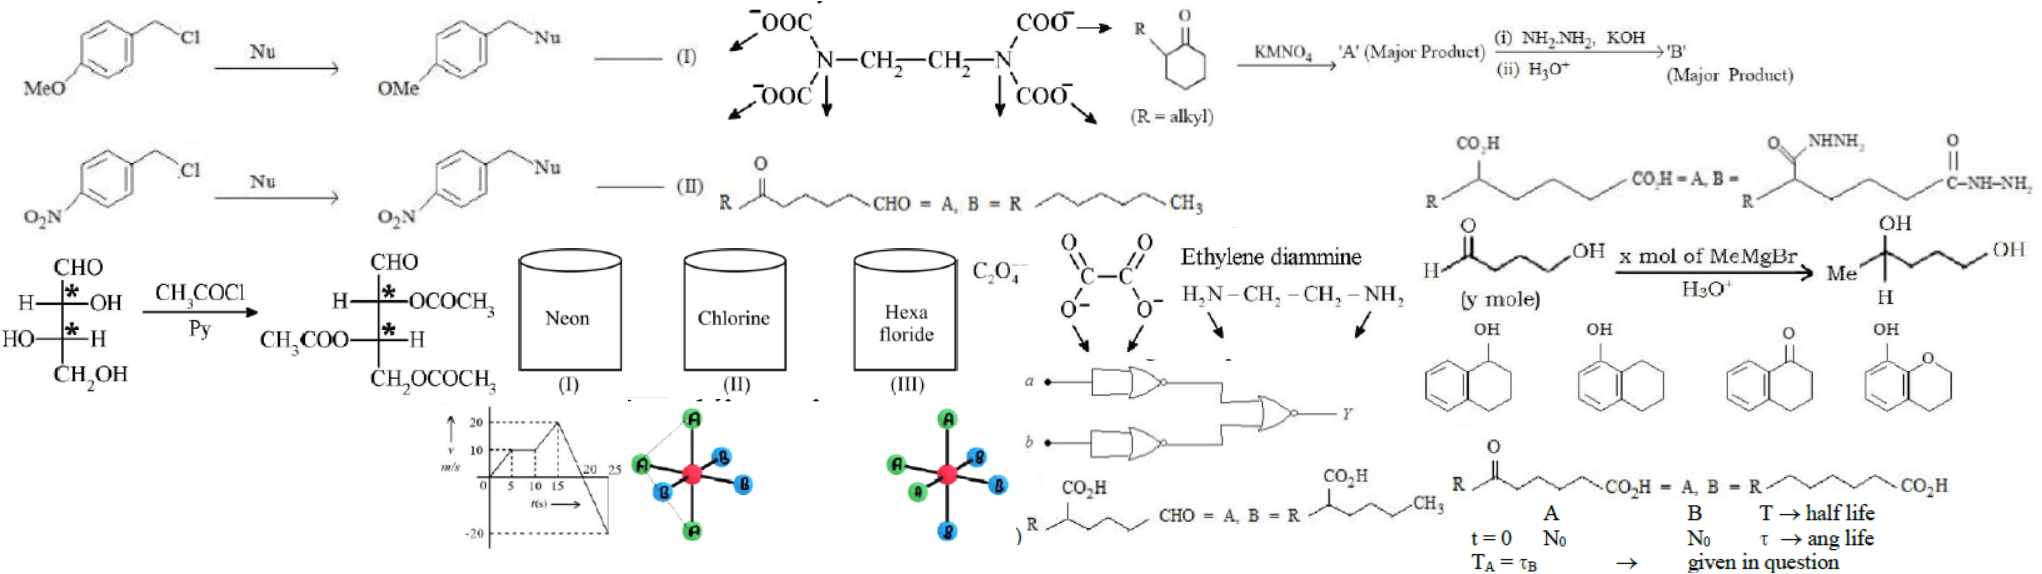
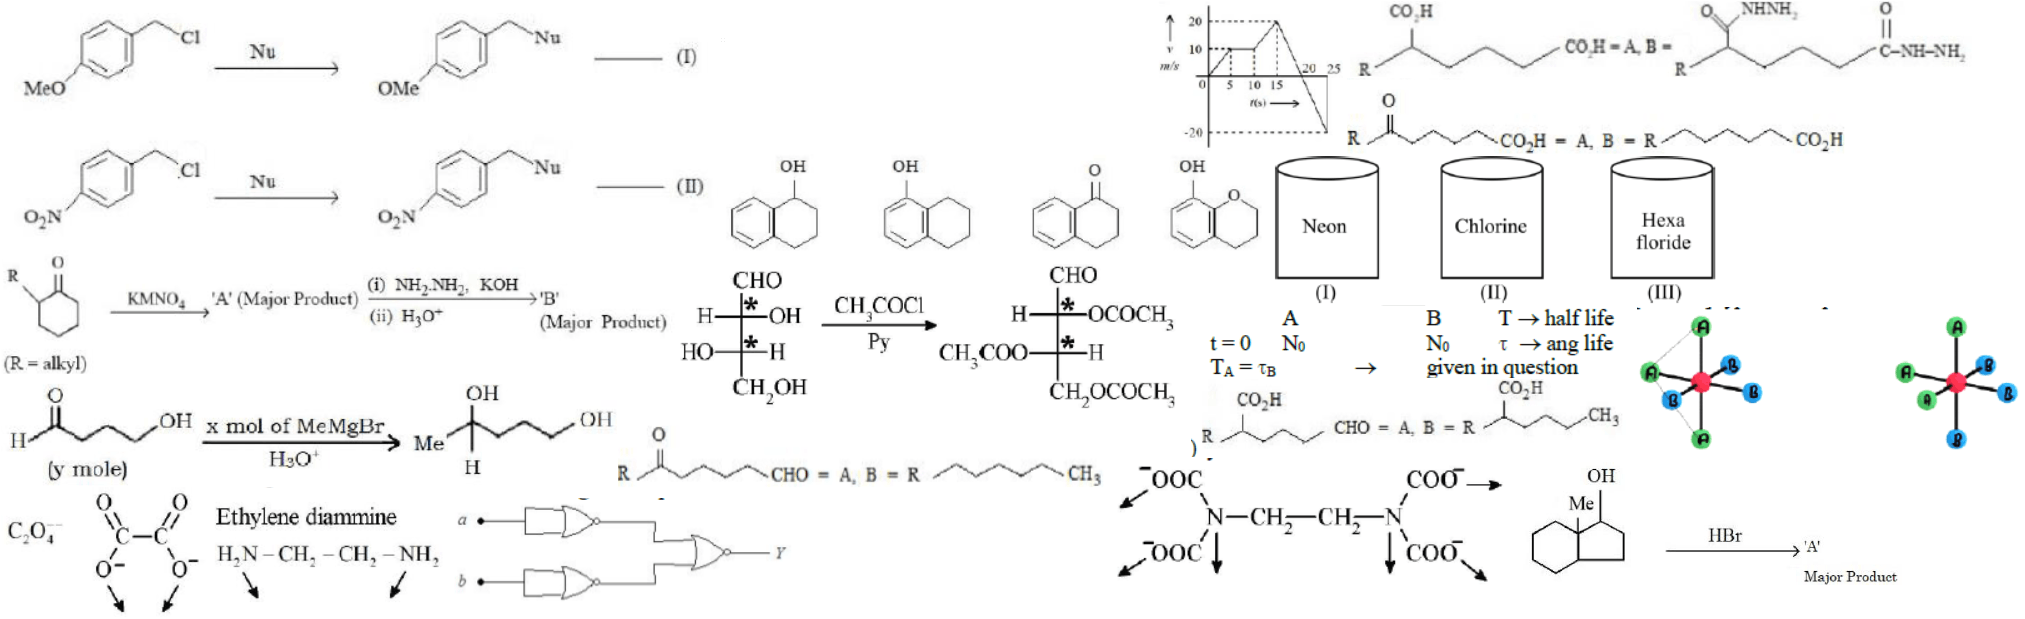
Fixed.

diff --git a/img/jee/mains/prev/jee_mn_11_apr_2023_s1.css b/img/jee/mains/prev/jee_mn_11_apr_2023_s1.css
@@ -11,7 +11,7 @@ Responsive: <div class="yourspritesname"></div>
 .JEEMAINS_11APRIL_2023_S1_Q_35::after {content: '\00a0';display: inline-block; width:356px; height:190px; background-position: 88.86872353297036% 56.05060506050605%;background-size: 564.3258426966293% 1056.842105263158%;background-image: url(jee_mn_11_apr_2023_s1-0.png);padding: 0; }
 div.JEEMAINS_11APRIL_2023_S1_Q_35::after {max-width:356px; width:100%;height:0;padding: 0 0 53.37078651685393% 0;}
 .JEEMAINS_11APRIL_2023_S1_Q_37 {max-width:348px; max-height:107px; }
-.JEEMAINS_11APRIL_2023_S1_Q_37::after {content: '\00a0';display: inline-block; width:348px; height:107px; background-position: 59.976387249114524% 76.87366167023555%;background-size: 586.7816091954023% 536.4485981308411%;background-image: url(jee_mn_11_apr_2023_s1-1.png);padding: 0; }
+.JEEMAINS_11APRIL_2023_S1_Q_37::after {content: '\00a0';display: inline-block; width:348px; height:107px; background-position: 26.774001192605844% 97.265625%;background-size: 581.8965517241379% 578.5046728971963%;background-image: url(jee_mn_11_apr_2023_s1-1.png);padding: 0; }
 div.JEEMAINS_11APRIL_2023_S1_Q_37::after {max-width:348px; width:100%;height:0;padding: 0 0 30.74712643678161% 0;}
 .JEEMAINS_11APRIL_2023_S1_Q_42_O_1 {max-width:222px; max-height:148px; }
 .JEEMAINS_11APRIL_2023_S1_Q_42_O_1::after {content: '\00a0';display: inline-block; width:222px; height:148px; background-position: 95.747062115277% 83.81720430107526%;background-size: 904.9549549549549% 1356.7567567567567%;background-image: url(jee_mn_11_apr_2023_s1-0.png);padding: 0; }
@@ -26,7 +26,7 @@ div.JEEMAINS_11APRIL_2023_S1_Q_42_O_3::after {max-width:212px; width:100%;height
 .JEEMAINS_11APRIL_2023_S1_Q_42_O_4::after {content: '\00a0';display: inline-block; width:233px; height:166px; background-position: 76.8018018018018% 99.0228013029316%;background-size: 862.2317596566523% 1209.6385542168675%;background-image: url(jee_mn_11_apr_2023_s1-0.png);padding: 0; }
 div.JEEMAINS_11APRIL_2023_S1_Q_42_O_4::after {max-width:233px; width:100%;height:0;padding: 0 0 71.24463519313305% 0;}
 .JEEMAINS_11APRIL_2023_S1_Q_43 {max-width:626px; max-height:152px; }
-.JEEMAINS_11APRIL_2023_S1_Q_43::after {content: '\00a0';display: inline-block; width:626px; height:152px; background-position: 0.07062146892655367% 95.260663507109%;background-size: 326.1980830670926% 377.63157894736844%;background-image: url(jee_mn_11_apr_2023_s1-1.png);padding: 0; }
+.JEEMAINS_11APRIL_2023_S1_Q_43::after {content: '\00a0';display: inline-block; width:626px; height:152px; background-position: 51.465332380271626% 0.21413276231263384%;background-size: 323.482428115016% 407.2368421052632%;background-image: url(jee_mn_11_apr_2023_s1-1.png);padding: 0; }
 div.JEEMAINS_11APRIL_2023_S1_Q_43::after {max-width:626px; width:100%;height:0;padding: 0 0 24.28115015974441% 0;}
 .JEEMAINS_11APRIL_2023_S1_Q_52 {max-width:313px; max-height:193px; }
 .JEEMAINS_11APRIL_2023_S1_Q_52::after {content: '\00a0';display: inline-block; width:313px; height:193px; background-position: 49.35141509433962% 86.00550964187327%;background-size: 641.85303514377% 1040.4145077720207%;background-image: url(jee_mn_11_apr_2023_s1-0.png);padding: 0; }
@@ -53,10 +53,10 @@ div.JEEMAINS_11APRIL_2023_S1_Q_62_O_4::after {max-width:220px; width:100%;height
 .JEEMAINS_11APRIL_2023_S1_Q_65::after {content: '\00a0';display: inline-block; width:107px; height:107px; background-position: 99.84227129337539% 31.088900578642818%;background-size: 1877.5700934579438% 1876.6355140186915%;background-image: url(jee_mn_11_apr_2023_s1-0.png);padding: 0; }
 div.JEEMAINS_11APRIL_2023_S1_Q_65::after {max-width:107px; width:100%;height:0;padding: 0 0 100% 0;}
 .JEEMAINS_11APRIL_2023_S1_Q_71 {max-width:548px; max-height:106px; }
-.JEEMAINS_11APRIL_2023_S1_Q_71::after {content: '\00a0';display: inline-block; width:548px; height:106px; background-position: 94.64524765729585% 67.73504273504274%;background-size: 372.62773722627736% 541.5094339622641%;background-image: url(jee_mn_11_apr_2023_s1-1.png);padding: 0; }
+.JEEMAINS_11APRIL_2023_S1_Q_71::after {content: '\00a0';display: inline-block; width:548px; height:106px; background-position: 48.74746106973595% 30.019493177387915%;background-size: 369.5255474452555% 583.9622641509434%;background-image: url(jee_mn_11_apr_2023_s1-1.png);padding: 0; }
 div.JEEMAINS_11APRIL_2023_S1_Q_71::after {max-width:548px; width:100%;height:0;padding: 0 0 19.343065693430656% 0;}
 .JEEMAINS_11APRIL_2023_S1_Q_72 {max-width:718px; max-height:246px; }
-.JEEMAINS_11APRIL_2023_S1_Q_72::after {content: '\00a0';display: inline-block; width:718px; height:246px; background-position: 0.0755287009063444% 0.3048780487804878%;background-size: 284.4011142061281% 233.33333333333334%;background-image: url(jee_mn_11_apr_2023_s1-1.png);padding: 0; }
+.JEEMAINS_11APRIL_2023_S1_Q_72::after {content: '\00a0';display: inline-block; width:718px; height:246px; background-position: 0.07651109410864575% 0.2680965147453083%;background-size: 282.033426183844% 251.6260162601626%;background-image: url(jee_mn_11_apr_2023_s1-1.png);padding: 0; }
 div.JEEMAINS_11APRIL_2023_S1_Q_72::after {max-width:718px; width:100%;height:0;padding: 0 0 34.26183844011142% 0;}
 .JEEMAINS_11APRIL_2023_S1_Q_73_O_1 {max-width:156px; max-height:127px; }
 .JEEMAINS_11APRIL_2023_S1_Q_73_O_1::after {content: '\00a0';display: inline-block; width:156px; height:127px; background-position: 99.35240151106314% 53.588516746411486%;background-size: 1287.820512820513% 1581.1023622047244%;background-image: url(jee_mn_11_apr_2023_s1-0.png);padding: 0; }
@@ -71,22 +71,25 @@ div.JEEMAINS_11APRIL_2023_S1_Q_73_O_3::after {max-width:142px; width:100%;height
 .JEEMAINS_11APRIL_2023_S1_Q_73_O_4::after {content: '\00a0';display: inline-block; width:158px; height:81px; background-position: 50.08103727714749% 98.18370524130773%;background-size: 1271.5189873417721% 2479.0123456790125%;background-image: url(jee_mn_11_apr_2023_s1-0.png);padding: 0; }
 div.JEEMAINS_11APRIL_2023_S1_Q_73_O_4::after {max-width:158px; width:100%;height:0;padding: 0 0 51.265822784810126% 0;}
 .JEEMAINS_11APRIL_2023_S1_Q_78 {max-width:678px; max-height:131px; }
-.JEEMAINS_11APRIL_2023_S1_Q_78::after {content: '\00a0';display: inline-block; width:678px; height:131px; background-position: 82.69794721407625% 0.22573363431151242%;background-size: 301.1799410029499% 438.1679389312977%;background-image: url(jee_mn_11_apr_2023_s1-1.png);padding: 0; }
+.JEEMAINS_11APRIL_2023_S1_Q_78::after {content: '\00a0';display: inline-block; width:678px; height:131px; background-position: 0.07423904974016332% 50.81967213114754%;background-size: 298.6725663716814% 472.51908396946567%;background-image: url(jee_mn_11_apr_2023_s1-1.png);padding: 0; }
 div.JEEMAINS_11APRIL_2023_S1_Q_78::after {max-width:678px; width:100%;height:0;padding: 0 0 19.321533923303836% 0;}
 .JEEMAINS_11APRIL_2023_S1_Q_78_O_1 {max-width:627px; max-height:76px; }
-.JEEMAINS_11APRIL_2023_S1_Q_78_O_1::after {content: '\00a0';display: inline-block; width:627px; height:76px; background-position: 99.92932862190813% 26.70682730923695%;background-size: 325.6778309409888% 755.2631578947369%;background-image: url(jee_mn_11_apr_2023_s1-1.png);padding: 0; }
+.JEEMAINS_11APRIL_2023_S1_Q_78_O_1::after {content: '\00a0';display: inline-block; width:627px; height:76px; background-position: 96.3519313304721% 0.1841620626151013%;background-size: 322.9665071770335% 814.4736842105264%;background-image: url(jee_mn_11_apr_2023_s1-1.png);padding: 0; }
 div.JEEMAINS_11APRIL_2023_S1_Q_78_O_1::after {max-width:627px; width:100%;height:0;padding: 0 0 12.121212121212121% 0;}
 .JEEMAINS_11APRIL_2023_S1_Q_78_O_2 {max-width:435px; max-height:78px; }
-.JEEMAINS_11APRIL_2023_S1_Q_78_O_2::after {content: '\00a0';display: inline-block; width:435px; height:78px; background-position: 63.223397635345364% 94.15322580645162%;background-size: 469.42528735632186% 735.8974358974359%;background-image: url(jee_mn_11_apr_2023_s1-1.png);padding: 0; }
+.JEEMAINS_11APRIL_2023_S1_Q_78_O_2::after {content: '\00a0';display: inline-block; width:435px; height:78px; background-position: 74.90566037735849% 70.0554528650647%;background-size: 465.51724137931035% 793.5897435897435%;background-image: url(jee_mn_11_apr_2023_s1-1.png);padding: 0; }
 div.JEEMAINS_11APRIL_2023_S1_Q_78_O_2::after {max-width:435px; width:100%;height:0;padding: 0 0 17.93103448275862% 0;}
 .JEEMAINS_11APRIL_2023_S1_Q_78_O_3 {max-width:512px; max-height:77px; }
-.JEEMAINS_11APRIL_2023_S1_Q_78_O_3::after {content: '\00a0';display: inline-block; width:512px; height:77px; background-position: 94.90196078431373% 85.31187122736418%;background-size: 398.828125% 745.4545454545455%;background-image: url(jee_mn_11_apr_2023_s1-1.png);padding: 0; }
+.JEEMAINS_11APRIL_2023_S1_Q_78_O_3::after {content: '\00a0';display: inline-block; width:512px; height:77px; background-position: 89.0284203569068% 14.391143911439114%;background-size: 395.5078125% 803.8961038961039%;background-image: url(jee_mn_11_apr_2023_s1-1.png);padding: 0; }
 div.JEEMAINS_11APRIL_2023_S1_Q_78_O_3::after {max-width:512px; width:100%;height:0;padding: 0 0 15.0390625% 0;}
 .JEEMAINS_11APRIL_2023_S1_Q_78_O_4 {max-width:491px; max-height:82px; }
-.JEEMAINS_11APRIL_2023_S1_Q_78_O_4::after {content: '\00a0';display: inline-block; width:491px; height:82px; background-position: 46.42166344294004% 29.26829268292683%;background-size: 415.88594704684317% 700%;background-image: url(jee_mn_11_apr_2023_s1-1.png);padding: 0; }
+.JEEMAINS_11APRIL_2023_S1_Q_78_O_4::after {content: '\00a0';display: inline-block; width:491px; height:82px; background-position: 40.28683181225554% 77.28119180633148%;background-size: 412.4236252545825% 754.8780487804878%;background-image: url(jee_mn_11_apr_2023_s1-1.png);padding: 0; }
 div.JEEMAINS_11APRIL_2023_S1_Q_78_O_4::after {max-width:491px; width:100%;height:0;padding: 0 0 16.70061099796334% 0;}
+.JEEMAINS_11APRIL_2023_S1_Q_84 {max-width:393px; max-height:127px; }
+.JEEMAINS_11APRIL_2023_S1_Q_84::after {content: '\00a0';display: inline-block; width:393px; height:127px; background-position: 93.01470588235294% 93.08943089430895%;background-size: 515.2671755725191% 487.40157480314963%;background-image: url(jee_mn_11_apr_2023_s1-1.png);padding: 0; }
+div.JEEMAINS_11APRIL_2023_S1_Q_84::after {max-width:393px; width:100%;height:0;padding: 0 0 32.31552162849873% 0;}
 .JEEMAINS_11APRIL_2023_S1_Q_87 {max-width:616px; max-height:106px; }
-.JEEMAINS_11APRIL_2023_S1_Q_87::after {content: '\00a0';display: inline-block; width:616px; height:106px; background-position: 99.15848527349229% 44.87179487179487%;background-size: 331.4935064935065% 541.5094339622641%;background-image: url(jee_mn_11_apr_2023_s1-1.png);padding: 0; }
+.JEEMAINS_11APRIL_2023_S1_Q_87::after {content: '\00a0';display: inline-block; width:616px; height:106px; background-position: 0.07097232079488999% 74.07407407407408%;background-size: 328.73376623376623% 583.9622641509434%;background-image: url(jee_mn_11_apr_2023_s1-1.png);padding: 0; }
 div.JEEMAINS_11APRIL_2023_S1_Q_87::after {max-width:616px; width:100%;height:0;padding: 0 0 17.207792207792206% 0;}
 .JEEMAINS_11APRIL_2023_S1_S_11 {max-width:332px; max-height:460px; }
 .JEEMAINS_11APRIL_2023_S1_S_11::after {content: '\00a0';display: inline-block; width:332px; height:460px; background-position: 30.05366726296959% 87.91989664082688%;background-size: 605.1204819277109% 436.5217391304348%;background-image: url(jee_mn_11_apr_2023_s1-0.png);padding: 0; }
@@ -110,10 +113,10 @@ div.JEEMAINS_11APRIL_2023_S1_S_22::after {max-width:441px; width:100%;height:0;p
 .JEEMAINS_11APRIL_2023_S1_S_32::after {content: '\00a0';display: inline-block; width:427px; height:261px; background-position: 65.80278128950695% 49.055523755008586%;background-size: 470.4918032786885% 769.3486590038315%;background-image: url(jee_mn_11_apr_2023_s1-0.png);padding: 0; }
 div.JEEMAINS_11APRIL_2023_S1_S_32::after {max-width:427px; width:100%;height:0;padding: 0 0 61.124121779859486% 0;}
 .JEEMAINS_11APRIL_2023_S1_S_33 {max-width:453px; max-height:150px; }
-.JEEMAINS_11APRIL_2023_S1_S_33::after {content: '\00a0';display: inline-block; width:453px; height:150px; background-position: 32.221522970421645% 58.490566037735846%;background-size: 450.77262693156734% 382.6666666666667%;background-image: url(jee_mn_11_apr_2023_s1-1.png);padding: 0; }
+.JEEMAINS_11APRIL_2023_S1_S_33::after {content: '\00a0';display: inline-block; width:453px; height:150px; background-position: 80.72519083969466% 33.26226012793177%;background-size: 447.0198675496689% 412.6666666666667%;background-image: url(jee_mn_11_apr_2023_s1-1.png);padding: 0; }
 div.JEEMAINS_11APRIL_2023_S1_S_33::after {max-width:453px; width:100%;height:0;padding: 0 0 33.11258278145695% 0;}
 .JEEMAINS_11APRIL_2023_S1_S_34 {max-width:445px; max-height:71px; }
-.JEEMAINS_11APRIL_2023_S1_S_34::after {content: '\00a0';display: inline-block; width:445px; height:71px; background-position: 90.92047589229806% 99.80119284294234%;background-size: 458.87640449438203% 808.4507042253521%;background-image: url(jee_mn_11_apr_2023_s1-1.png);padding: 0; }
+.JEEMAINS_11APRIL_2023_S1_S_34::after {content: '\00a0';display: inline-block; width:445px; height:71px; background-position: 75.37974683544304% 56.02189781021898%;background-size: 455.0561797752809% 871.830985915493%;background-image: url(jee_mn_11_apr_2023_s1-1.png);padding: 0; }
 div.JEEMAINS_11APRIL_2023_S1_S_34::after {max-width:445px; width:100%;height:0;padding: 0 0 15.955056179775282% 0;}
 .JEEMAINS_11APRIL_2023_S1_S_35 {max-width:675px; max-height:262px; }
 .JEEMAINS_11APRIL_2023_S1_S_35::after {content: '\00a0';display: inline-block; width:675px; height:262px; background-position: 0.07496251874062969% 17.18213058419244%;background-size: 297.6296296296296% 766.412213740458%;background-image: url(jee_mn_11_apr_2023_s1-0.png);padding: 0; }
@@ -152,13 +155,13 @@ div.JEEMAINS_11APRIL_2023_S1_S_59::after {max-width:425px; width:100%;height:0;p
 .JEEMAINS_11APRIL_2023_S1_S_60::after {content: '\00a0';display: inline-block; width:550px; height:246px; background-position: 48.52638793694311% 16.969353007945518%;background-size: 365.27272727272725% 816.260162601626%;background-image: url(jee_mn_11_apr_2023_s1-0.png);padding: 0; }
 div.JEEMAINS_11APRIL_2023_S1_S_60::after {max-width:550px; width:100%;height:0;padding: 0 0 44.72727272727273% 0;}
 .JEEMAINS_11APRIL_2023_S1_S_61 {max-width:387px; max-height:150px; }
-.JEEMAINS_11APRIL_2023_S1_S_61::after {content: '\00a0';display: inline-block; width:387px; height:150px; background-position: 37.94561933534743% 94.10377358490567%;background-size: 527.6485788113695% 382.6666666666667%;background-image: url(jee_mn_11_apr_2023_s1-1.png);padding: 0; }
+.JEEMAINS_11APRIL_2023_S1_S_61::after {content: '\00a0';display: inline-block; width:387px; height:150px; background-position: 99.93894993894993% 65.45842217484008%;background-size: 523.2558139534884% 412.6666666666667%;background-image: url(jee_mn_11_apr_2023_s1-1.png);padding: 0; }
 div.JEEMAINS_11APRIL_2023_S1_S_61::after {max-width:387px; width:100%;height:0;padding: 0 0 38.75968992248062% 0;}
 .JEEMAINS_11APRIL_2023_S1_S_62 {max-width:472px; max-height:405px; }
 .JEEMAINS_11APRIL_2023_S1_S_62::after {content: '\00a0';display: inline-block; width:472px; height:405px; background-position: 0.06506180871828236% 63.6930754834685%;background-size: 425.635593220339% 495.8024691358025%;background-image: url(jee_mn_11_apr_2023_s1-0.png);padding: 0; }
 div.JEEMAINS_11APRIL_2023_S1_S_62::after {max-width:472px; width:100%;height:0;padding: 0 0 85.80508474576271% 0;}
 .JEEMAINS_11APRIL_2023_S1_S_62_1 {max-width:510px; max-height:153px; }
-.JEEMAINS_11APRIL_2023_S1_S_62_1::after {content: '\00a0';display: inline-block; width:510px; height:153px; background-position: 0.06527415143603134% 58.90736342042755%;background-size: 400.3921568627451% 375.16339869281046%;background-image: url(jee_mn_11_apr_2023_s1-1.png);padding: 0; }
+.JEEMAINS_11APRIL_2023_S1_S_62_1::after {content: '\00a0';display: inline-block; width:510px; height:153px; background-position: 44.884488448844884% 56.00858369098712%;background-size: 397.05882352941177% 404.57516339869284%;background-image: url(jee_mn_11_apr_2023_s1-1.png);padding: 0; }
 div.JEEMAINS_11APRIL_2023_S1_S_62_1::after {max-width:510px; width:100%;height:0;padding: 0 0 30% 0;}
 .JEEMAINS_11APRIL_2023_S1_S_64 {max-width:112px; max-height:107px; }
 .JEEMAINS_11APRIL_2023_S1_S_64::after {content: '\00a0';display: inline-block; width:112px; height:107px; background-position: 37.90195044807591% 95.84429247764335%;background-size: 1793.75% 1876.6355140186915%;background-image: url(jee_mn_11_apr_2023_s1-0.png);padding: 0; }
@@ -173,10 +176,10 @@ div.JEEMAINS_11APRIL_2023_S1_S_66::after {max-width:592px; width:100%;height:0;p
 .JEEMAINS_11APRIL_2023_S1_S_68::after {content: '\00a0';display: inline-block; width:502px; height:371px; background-position: 0.06635700066357% 87.17165546731826%;background-size: 400.199203187251% 541.2398921832884%;background-image: url(jee_mn_11_apr_2023_s1-0.png);padding: 0; }
 div.JEEMAINS_11APRIL_2023_S1_S_68::after {max-width:502px; width:100%;height:0;padding: 0 0 73.90438247011951% 0;}
 .JEEMAINS_11APRIL_2023_S1_S_70 {max-width:447px; max-height:131px; }
-.JEEMAINS_11APRIL_2023_S1_S_70::after {content: '\00a0';display: inline-block; width:447px; height:131px; background-position: 60.56426332288401% 51.24153498871332%;background-size: 456.8232662192394% 438.1679389312977%;background-image: url(jee_mn_11_apr_2023_s1-1.png);padding: 0; }
+.JEEMAINS_11APRIL_2023_S1_S_70::after {content: '\00a0';display: inline-block; width:447px; height:131px; background-position: 0.06337135614702155% 99.79508196721312%;background-size: 453.02013422818794% 472.51908396946567%;background-image: url(jee_mn_11_apr_2023_s1-1.png);padding: 0; }
 div.JEEMAINS_11APRIL_2023_S1_S_70::after {max-width:447px; width:100%;height:0;padding: 0 0 29.30648769574944% 0;}
 .JEEMAINS_11APRIL_2023_S1_S_70_1 {max-width:407px; max-height:142px; }
-.JEEMAINS_11APRIL_2023_S1_S_70_1::after {content: '\00a0';display: inline-block; width:407px; height:142px; background-position: 44.03669724770642% 0.23148148148148148%;background-size: 501.7199017199017% 404.22535211267603%;background-image: url(jee_mn_11_apr_2023_s1-1.png);padding: 0; }
+.JEEMAINS_11APRIL_2023_S1_S_70_1::after {content: '\00a0';display: inline-block; width:407px; height:142px; background-position: 68.60321384425217% 96.0167714884696%;background-size: 497.54299754299757% 435.9154929577465%;background-image: url(jee_mn_11_apr_2023_s1-1.png);padding: 0; }
 div.JEEMAINS_11APRIL_2023_S1_S_70_1::after {max-width:407px; width:100%;height:0;padding: 0 0 34.88943488943489% 0;}
 .JEEMAINS_11APRIL_2023_S1_S_71 {max-width:651px; max-height:173px; }
 .JEEMAINS_11APRIL_2023_S1_S_71::after {content: '\00a0';display: inline-block; width:651px; height:173px; background-position: 93.29896907216495% 0.05449591280653951%;background-size: 308.60215053763443% 1160.6936416184972%;background-image: url(jee_mn_11_apr_2023_s1-0.png);padding: 0; }
@@ -203,4 +206,4 @@ div.JEEMAINS_11APRIL_2023_S1_S_87::after {max-width:326px; width:100%;height:0;p
 .JEEMAINS_11APRIL_2023_S1_S_89::after {content: '\00a0';display: inline-block; width:496px; height:206px; background-position: 0.06609385327164574% 99.83351831298557%;background-size: 405.0403225806452% 974.757281553398%;background-image: url(jee_mn_11_apr_2023_s1-0.png);padding: 0; }
 div.JEEMAINS_11APRIL_2023_S1_S_89::after {max-width:496px; width:100%;height:0;padding: 0 0 41.53225806451613% 0;}
 
-/* $TexturePacker:SmartUpdate:c19e3629c67421a9903514ea66da231d:f5d2754f3be9481d6d7fbbc4635923a1:0cc8db4d802ddf19d34e4cffe4a18568$ */
+/* $TexturePacker:SmartUpdate:b5136d58a9cd4f9d741ea043355e34a3:74754e503c60619ef9ee8707eb840e0a:0cc8db4d802ddf19d34e4cffe4a18568$ */
